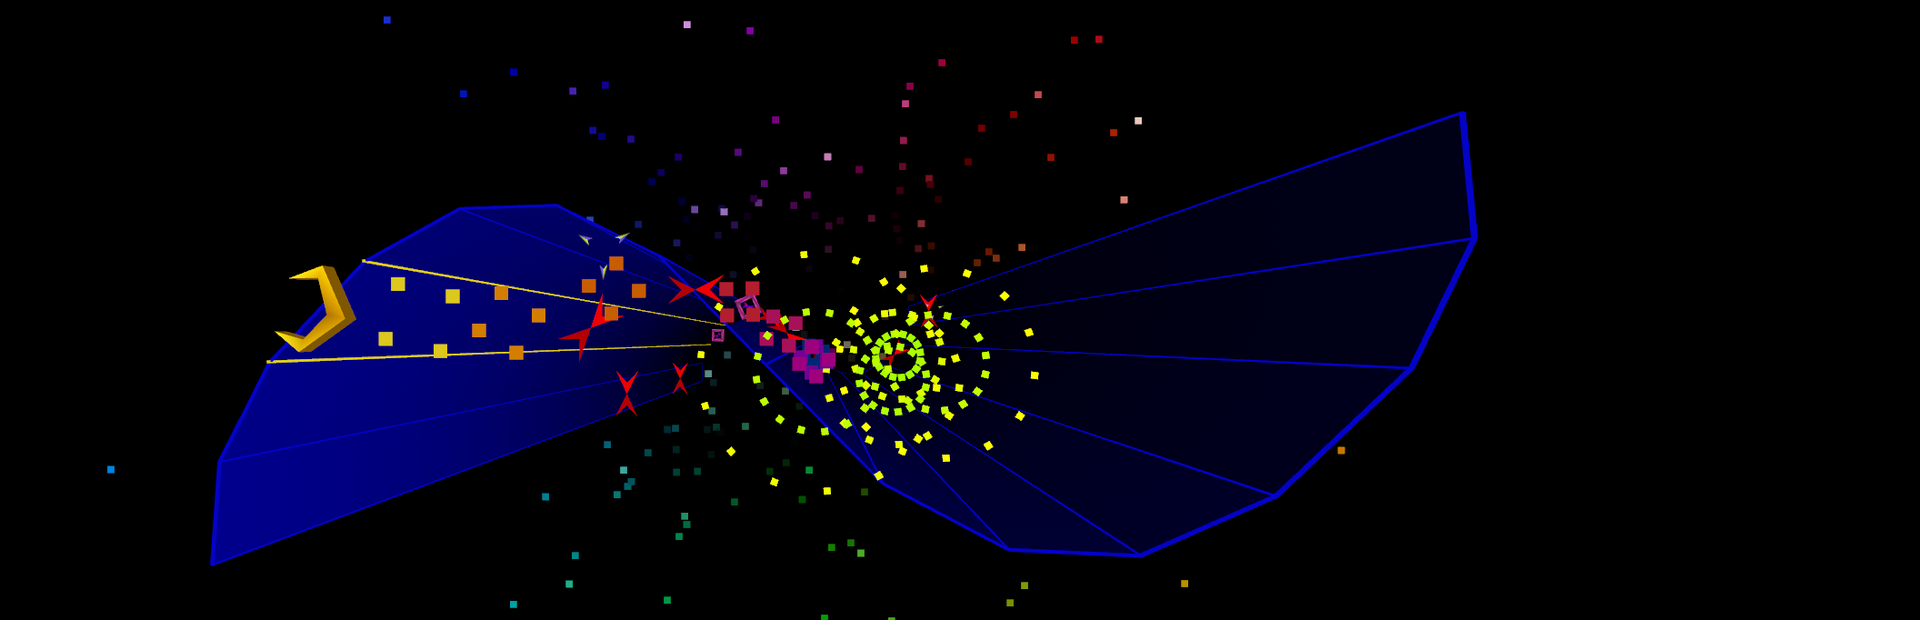
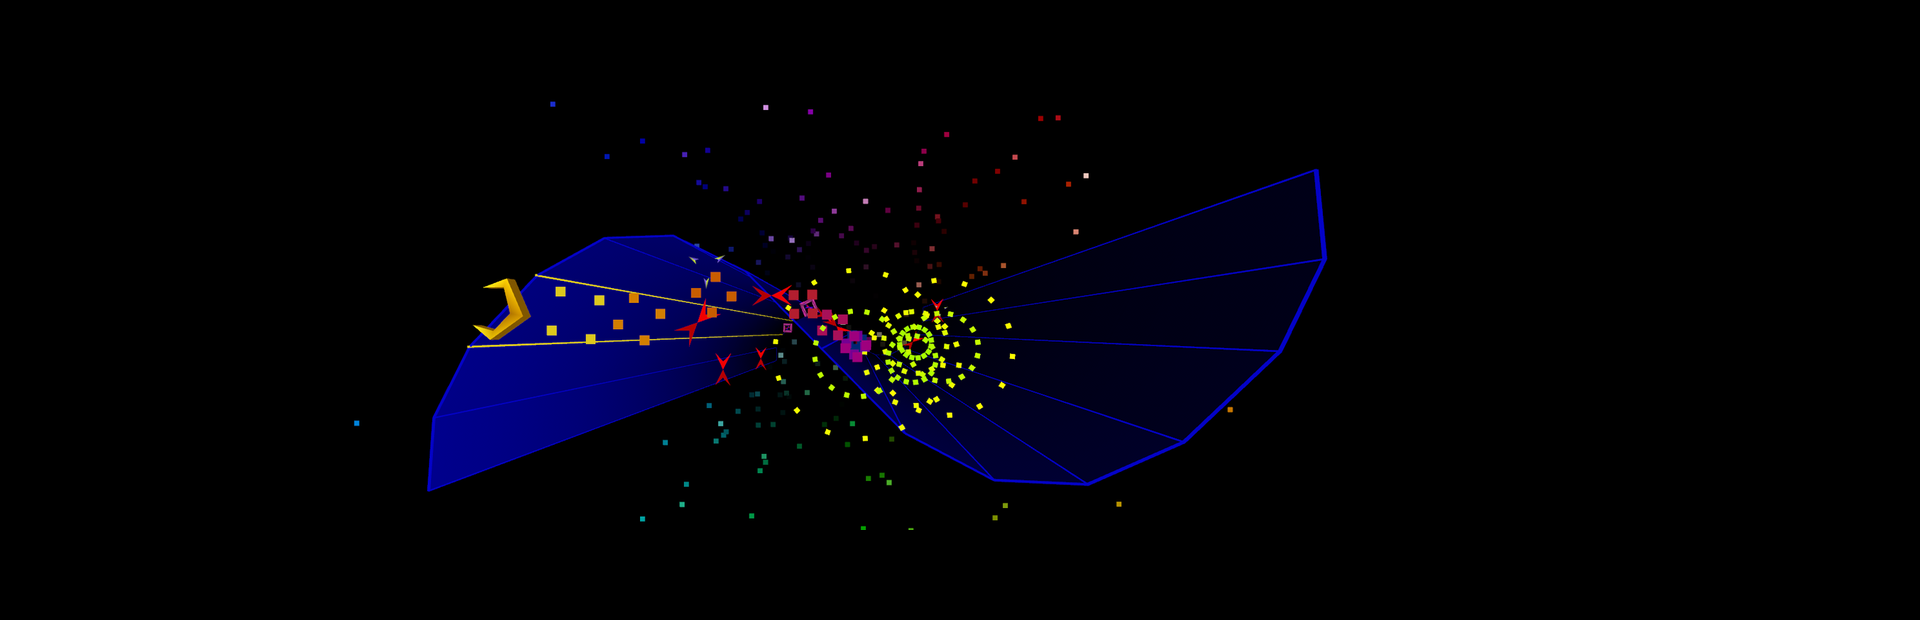
Reframe Steam hero for Big Picture and refresh old bundled artwork

diff --git a/src/tests/steam.rs b/src/tests/steam.rs
@@ -326,6 +326,49 @@ fn installation_embeds_artwork_for_every_library_view() {
 }
 
 #[test]
+fn reinstall_reframes_the_old_bundled_hero_and_preserves_a_custom_hero() {
+    let fixture = Fixture::new(&[42]);
+    let directory = fixture.destination();
+    let installed = install(
+        &fixture.root,
+        42,
+        &fixture.source,
+        &directory,
+        Platform::Linux,
+    )
+    .unwrap();
+    let hero = fixture
+        .shortcuts(42)
+        .parent()
+        .unwrap()
+        .join("grid")
+        .join(format!("{}_hero.png", installed.app_id));
+    fs::write(&hero, include_bytes!("../../assets/steam/gameplay.png")).unwrap();
+    install(
+        &fixture.root,
+        42,
+        &fixture.source,
+        &directory,
+        Platform::Linux,
+    )
+    .unwrap();
+    assert_eq!(
+        fs::read(&hero).unwrap(),
+        include_bytes!("../../assets/steam/hero.png")
+    );
+    fs::write(&hero, b"custom hero").unwrap();
+    install(
+        &fixture.root,
+        42,
+        &fixture.source,
+        &directory,
+        Platform::Linux,
+    )
+    .unwrap();
+    assert_eq!(fs::read(hero).unwrap(), b"custom hero");
+}
+
+#[test]
 fn reinstall_adds_missing_artwork_to_legacy_shortcuts_and_preserves_custom_images() {
     let fixture = Fixture::new(&[42]);
     let directory = fixture.destination();

diff --git a/src/steam.rs b/src/steam.rs
@@ -430,11 +430,23 @@ fn install_artwork(config: &Path, app_id: u32, directory: &Path) -> Result<()> {
         ),
     ] {
         let stem = format!("{app_id}{suffix}");
+        let png = grid.join(format!("{stem}.png"));
+        if suffix == "_hero"
+            && png.exists()
+            && fs::read(&png)? == include_bytes!("../assets/steam/gameplay.png")
+        {
+            let mut temporary = NamedTempFile::new_in(&grid)?;
+            temporary.write_all(bytes)?;
+            temporary.as_file().sync_all()?;
+            temporary
+                .persist(&png)
+                .map_err(|e| format!("Could not update Steam artwork {}: {e}", png.display()))?;
+        }
         if !["png", "jpg", "jpeg", "webp"]
             .iter()
             .any(|extension| grid.join(format!("{stem}.{extension}")).exists())
         {
-            write_missing_artwork(&grid.join(format!("{stem}.png")), bytes)?;
+            write_missing_artwork(&png, bytes)?;
         }
     }
     Ok(())

diff --git a/tools/steam_artwork.py b/tools/steam_artwork.py
@@ -68,6 +68,11 @@ if __name__ == "__main__":
     artwork("portrait.png", 600, 900, [(spectrum, 70, 90, 460, 460)],
             caption=(300, 680, 64, "middle"))
     with Image.open(gameplay) as screenshot:
-        ImageOps.fit(screenshot.convert("RGB"), (1920, 620),
-                     method=Image.Resampling.LANCZOS).save(OUTPUT / "hero.png", optimize=True)
+        # Big Picture crops the hero vertically and overlays the logo at bottom left.
+        scene = ImageOps.contain(screenshot.convert("RGB"), (1680, 440),
+                                 method=Image.Resampling.LANCZOS)
+        hero = Image.new("RGB", (1920, 620))
+        hero.paste(scene, ((hero.width - scene.width) // 2,
+                           (hero.height - scene.height) // 2))
+        hero.save(OUTPUT / "hero.png", optimize=True)
     print("hero.png: 1920x620 gameplay screenshot")

diff --git a/docs/reference.md b/docs/reference.md
@@ -143,8 +143,12 @@ a hero background, and a transparent logo. Images are embedded in the executable
 and installed into the selected account's `userdata/<account>/config/grid/` directory using the
 shortcut ID. Existing custom artwork and nonempty shortcut icons are preserved;
 re-running the installer fills missing artwork and adds an icon to older shortcuts.
+It also replaces the old bundled hero with the reframed version when its bytes
+match the original gameplay image.
 The hero background is a wide level 9 gameplay screenshot with the sine-wave blue
 web, gold claw, enemies, and explosion rings, without HUD or announcement overlays.
+The screenshot fits within a centered 440-pixel-high area of the 1920×620 hero,
+leaving room for Big Picture's vertical crop and bottom-left logo.
 Running it from the installed copy also works and skips copying onto itself.
 Unix executable permissions are preserved.
 
